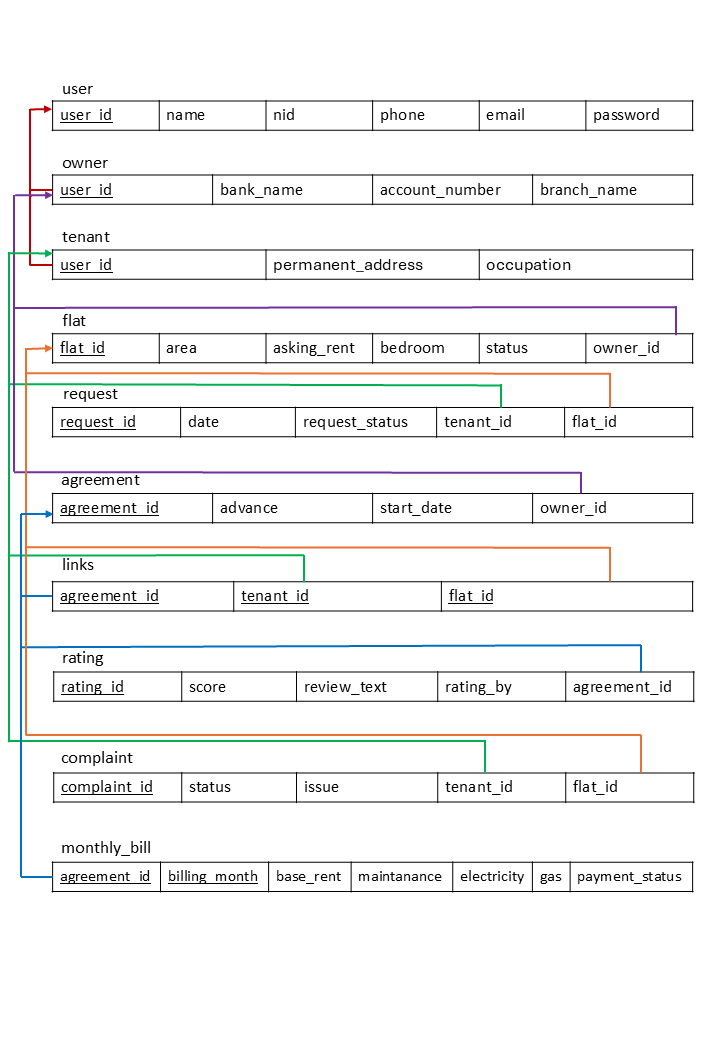
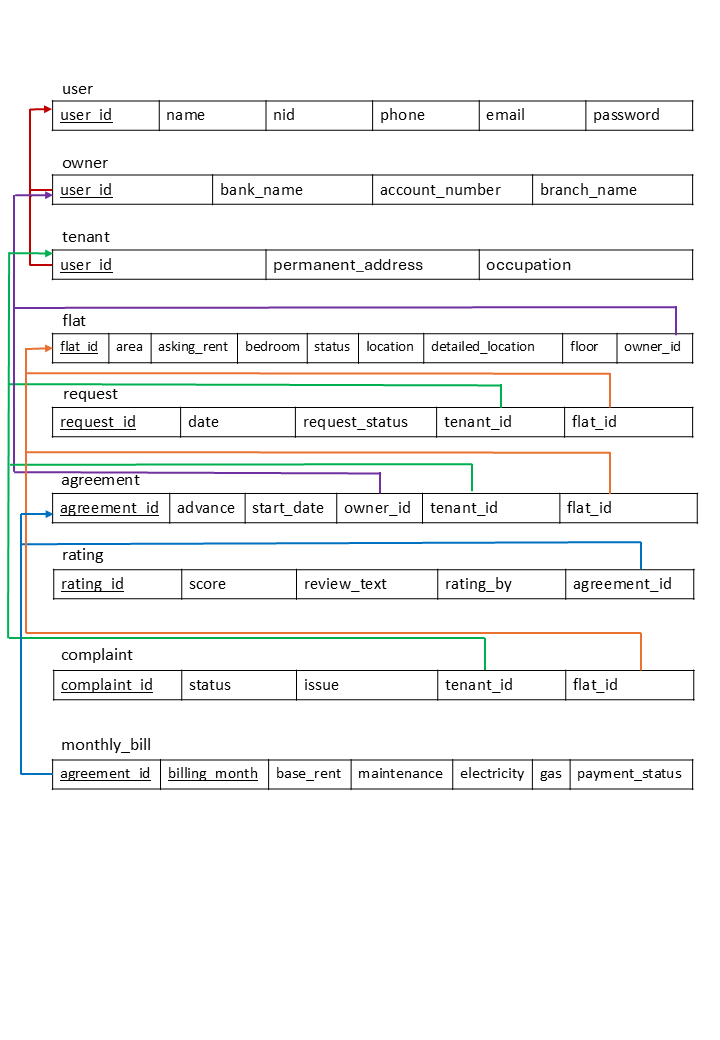
member_1_feature_2_done

diff --git a/owner_dashboard.php b/owner_dashboard.php
@@ -1,9 +1,13 @@
 <?php
 session_start();
+require_once 'config/db_connect.php'; // ডাটাবেস কানেকশন যুক্ত করা হলো
+
 if (!isset($_SESSION['user_id']) || $_SESSION['role'] !== 'owner') {
     header("Location: login.php");
     exit();
 }
+
+$owner_id = $_SESSION['user_id'];
 ?>
 <!DOCTYPE html>
 <html lang="en">
@@ -26,22 +30,49 @@ if (!isset($_SESSION['user_id']) || $_SESSION['role'] !== 'owner') {
         <div class="action-bar">
             <h2>My Listed Flats</h2>
             <div>
-                <a href="#" class="btn-post">+ Post New Flat</a>
+                <a href="post_flat.php" class="btn-post">+ Post New Flat</a>
                 <a href="actions/logout_action.php" class="btn-logout">Logout</a>
             </div>
         </div>
 
-        <div class="flat-card border-owner">
-            <h3>Flat ID: #101</h3>
-            <p><strong>Area:</strong> Banani | <strong>Bedrooms:</strong> 3 | <strong>Asking Rent:</strong> 25,000 BDT</p>
-            <p><strong>Status:</strong> Available</p>
-        </div>
+        <?php
+        // ডাটাবেস থেকে এই মালিকের ফ্লাটগুলো তুলে আনা হচ্ছে
+        $sql = "SELECT * FROM flat WHERE owner_id = ? ORDER BY flat_id DESC";
+        $stmt = $conn->prepare($sql);
+        $stmt->bind_param("i", $owner_id);
+        $stmt->execute();
+        $result = $stmt->get_result();
 
-        <div class="flat-card border-owner">
-            <h3>Flat ID: #102</h3>
-            <p><strong>Area:</strong> Gulshan | <strong>Bedrooms:</strong> 4 | <strong>Asking Rent:</strong> 40,000 BDT</p>
-            <p><strong>Status:</strong> Rented</p>
-        </div>
+        if ($result->num_rows > 0) {
+            while ($flat = $result->fetch_assoc()) {
+                // স্ট্যাটাস অনুযায়ী রং পরিবর্তন করার লজিক
+                $status_color = ($flat['status'] == 'Available') ? 'green' : 'red';
+        ?>
+
+                <div class="flat-card border-owner">
+                    <h3>Flat ID: #<?php echo $flat['flat_id']; ?>
+                        <span style="font-size: 14px; float: right; color: <?php echo $status_color; ?>;">
+                            [<?php echo $flat['status']; ?>]
+                        </span>
+                    </h3>
+                    <p><strong>Location:</strong> <?php echo htmlspecialchars($flat['location']); ?></p>
+                    <p><strong>Detailed Address:</strong> <?php echo htmlspecialchars($flat['detailed_location']); ?></p>
+                    <p>
+                        <strong>Floor:</strong> <?php echo $flat['floor']; ?> |
+                        <strong>Area:</strong> <?php echo $flat['area']; ?> sq ft |
+                        <strong>Bedrooms:</strong> <?php echo $flat['bedroom']; ?>
+                    </p>
+                    <p style="font-size: 18px; color: #007BFF;"><strong>Asking Rent:</strong> <?php echo number_format($flat['asking_rent']); ?> BDT</p>
+                </div>
+
+        <?php
+            }
+        } else {
+            echo "<p style='text-align: center; padding: 20px; background-color: white; border-radius: 5px;'>You haven't posted any flats yet. Click '+ Post New Flat' to get started!</p>";
+        }
+        $stmt->close();
+        ?>
+
     </div>
 
 </body>

diff --git a/tenant_dashboard.php b/tenant_dashboard.php
@@ -1,5 +1,7 @@
 <?php
 session_start();
+require_once 'config/db_connect.php'; // ডাটাবেস কানেকশন যুক্ত করা হলো
+
 if (!isset($_SESSION['user_id']) || $_SESSION['role'] !== 'tenant') {
     header("Location: login.php");
     exit();
@@ -28,19 +30,37 @@ if (!isset($_SESSION['user_id']) || $_SESSION['role'] !== 'tenant') {
             <a href="actions/logout_action.php" class="btn-logout">Logout</a>
         </div>
 
-        <div class="flat-card border-tenant">
-            <h3>Flat ID: #205</h3>
-            <p><strong>Area:</strong> Dhanmondi | <strong>Bedrooms:</strong> 3 | <strong>Asking Rent:</strong> 22,000 BDT</p>
-            <p><strong>Owner Contact:</strong> (Hidden until agreement)</p>
-            <a href="#" class="btn-request">Send Rent Request</a>
-        </div>
+        <?php
+        // ডাটাবেস থেকে শুধু Available ফ্লাটগুলো তুলে আনা হচ্ছে
+        $sql = "SELECT * FROM flat WHERE status = 'Available' ORDER BY flat_id DESC";
+        $result = $conn->query($sql);
 
-        <div class="flat-card border-tenant">
-            <h3>Flat ID: #308</h3>
-            <p><strong>Area:</strong> Mirpur | <strong>Bedrooms:</strong> 2 | <strong>Asking Rent:</strong> 15,000 BDT</p>
-            <p><strong>Owner Contact:</strong> (Hidden until agreement)</p>
-            <a href="#" class="btn-request">Send Rent Request</a>
-        </div>
+        if ($result->num_rows > 0) {
+            while ($flat = $result->fetch_assoc()) {
+        ?>
+
+                <div class="flat-card border-tenant">
+                    <h3>Flat Location: <?php echo htmlspecialchars($flat['location']); ?></h3>
+                    <p><strong>Detailed Address:</strong> <?php echo htmlspecialchars($flat['detailed_location']); ?></p>
+                    <p>
+                        <strong>Floor:</strong> <?php echo $flat['floor']; ?> |
+                        <strong>Area:</strong> <?php echo $flat['area']; ?> sq ft |
+                        <strong>Bedrooms:</strong> <?php echo $flat['bedroom']; ?>
+                    </p>
+                    <p style="font-size: 18px; color: #28a745;"><strong>Asking Rent:</strong> <?php echo number_format($flat['asking_rent']); ?> BDT</p>
+
+                    <p><strong>Owner Contact:</strong> (Hidden until agreement is confirmed)</p>
+
+                    <a href="actions/request_flat_action.php?flat_id=<?php echo $flat['flat_id']; ?>" class="btn-request">Send Rent Request</a>
+                </div>
+
+        <?php
+            }
+        } else {
+            echo "<p style='text-align: center; padding: 20px; background-color: white; border-radius: 5px;'>Sorry, no flats are available for rent right now. Please check back later!</p>";
+        }
+        ?>
+
     </div>
 
 </body>

diff --git a/post_flat.php b/post_flat.php
@@ -1,0 +1,65 @@
+<?php
+session_start();
+
+if (!isset($_SESSION['user_id']) || $_SESSION['role'] !== 'owner') {
+    header("Location: login.php");
+    exit();
+}
+?>
+
+<!DOCTYPE html>
+<html lang="en">
+
+<head>
+    <meta charset="UTF-8">
+    <meta name="viewport" content="width=device-width, initial-scale=1.0">
+    <title>Post New Flat - House Rent System</title>
+    <link rel="stylesheet" href="css/style.css">
+</head>
+
+<body>
+
+    <div class="form-container">
+        <h2>Post a New Flat Advertisement</h2>
+
+        <form action="actions/post_flat_action.php" method="POST">
+
+            <div class="form-group">
+                <label>Location Area (e.g., Mirpur, Dhanmondi) *</label>
+                <input type="text" name="location" placeholder="Which area?" required>
+            </div>
+
+            <div class="form-group">
+                <label>Detailed Address (Road, House, Block) *</label>
+                <input type="text" name="detailed_location" placeholder="e.g. Road 5, House 12/A" required>
+            </div>
+
+            <div class="form-group">
+                <label>Flat Size (Square Feet) *</label>
+                <input type="number" name="area" placeholder="e.g., 1200" required>
+            </div>
+
+            <div class="form-group">
+                <label>Number of Bedrooms *</label>
+                <input type="number" name="bedroom" placeholder="e.g., 3" required>
+            </div>
+
+            <div class="form-group">
+                <label>Floor Number (Numeric Only) *</label>
+                <input type="number" name="floor" placeholder="e.g., 4" required>
+            </div>
+
+            <div class="form-group">
+                <label>Asking Rent (BDT per month) *</label>
+                <input type="number" name="asking_rent" placeholder="e.g., 25000" required>
+            </div>
+
+            <button type="submit" style="background-color: #28a745;">Publish Flat Advertisement</button>
+
+            <a href="owner_dashboard.php" class="back-link">← Cancel and Go Back</a>
+        </form>
+    </div>
+
+</body>
+
+</html>

diff --git a/actions/post_flat_action.php b/actions/post_flat_action.php
@@ -1,0 +1,50 @@
+<?php
+session_start();
+require_once '../config/db_connect.php';
+
+// সিকিউরিটি চেক
+if (!isset($_SESSION['user_id']) || $_SESSION['role'] !== 'owner') {
+    header("Location: ../login.php");
+    exit();
+}
+
+if ($_SERVER["REQUEST_METHOD"] == "POST") {
+
+    // ফর্ম থেকে ডেটা গ্রহণ
+    $location = trim($_POST['location']);
+    $detailed_location = trim($_POST['detailed_location']);
+    $area = $_POST['area'];
+    $bedroom = $_POST['bedroom'];
+    $floor = $_POST['floor'];
+    $asking_rent = $_POST['asking_rent'];
+
+    // ডিফল্ট মান
+    $status = 'Available';
+    $owner_id = $_SESSION['user_id'];
+
+    // SQL কোয়েরি (৮টি কলাম)
+    $sql = "INSERT INTO flat (area, location, asking_rent, bedroom, floor, detailed_location, status, owner_id) 
+            VALUES (?, ?, ?, ?, ?, ?, ?, ?)";
+
+    $stmt = $conn->prepare($sql);
+
+    // ডেটা টাইপ ম্যাপিং: 
+    // area(i), location(s), asking_rent(i), bedroom(i), floor(i), detailed_location(s), status(s), owner_id(i)
+    // স্ট্রিংটি হবে: "isiiissi"
+    $stmt->bind_param("isiiissi", $area, $location, $asking_rent, $bedroom, $floor, $detailed_location, $status, $owner_id);
+
+    if ($stmt->execute()) {
+        echo "<script>
+                alert('Flat advertisement posted successfully!');
+                window.location.href='../owner_dashboard.php';
+              </script>";
+    } else {
+        echo "<script>
+                alert('Error: Could not post advertisement.');
+                window.location.href='../post_flat.php';
+              </script>";
+    }
+
+    $stmt->close();
+    $conn->close();
+}
